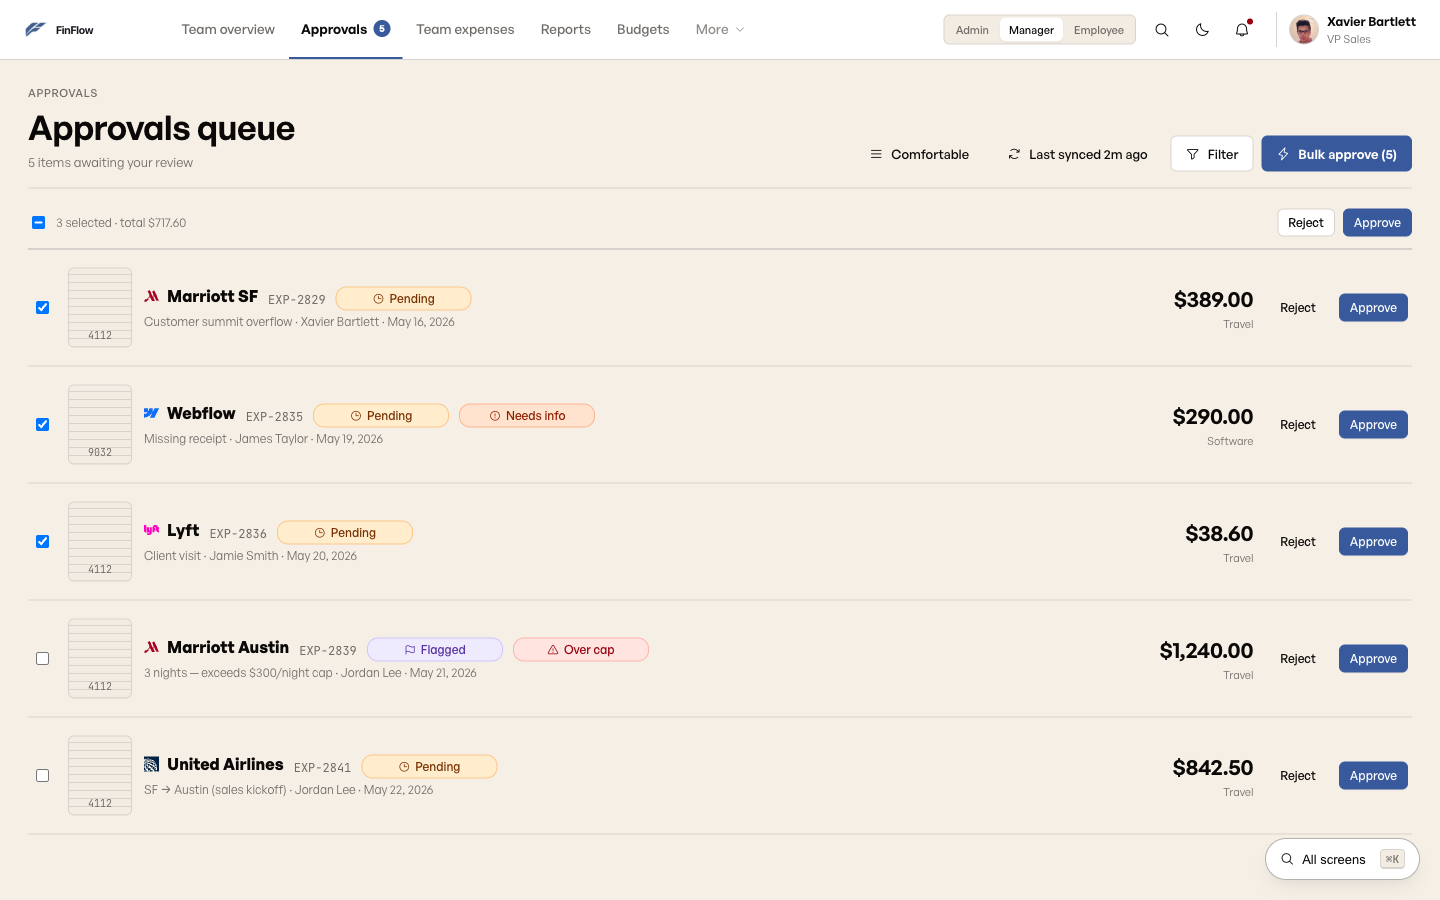
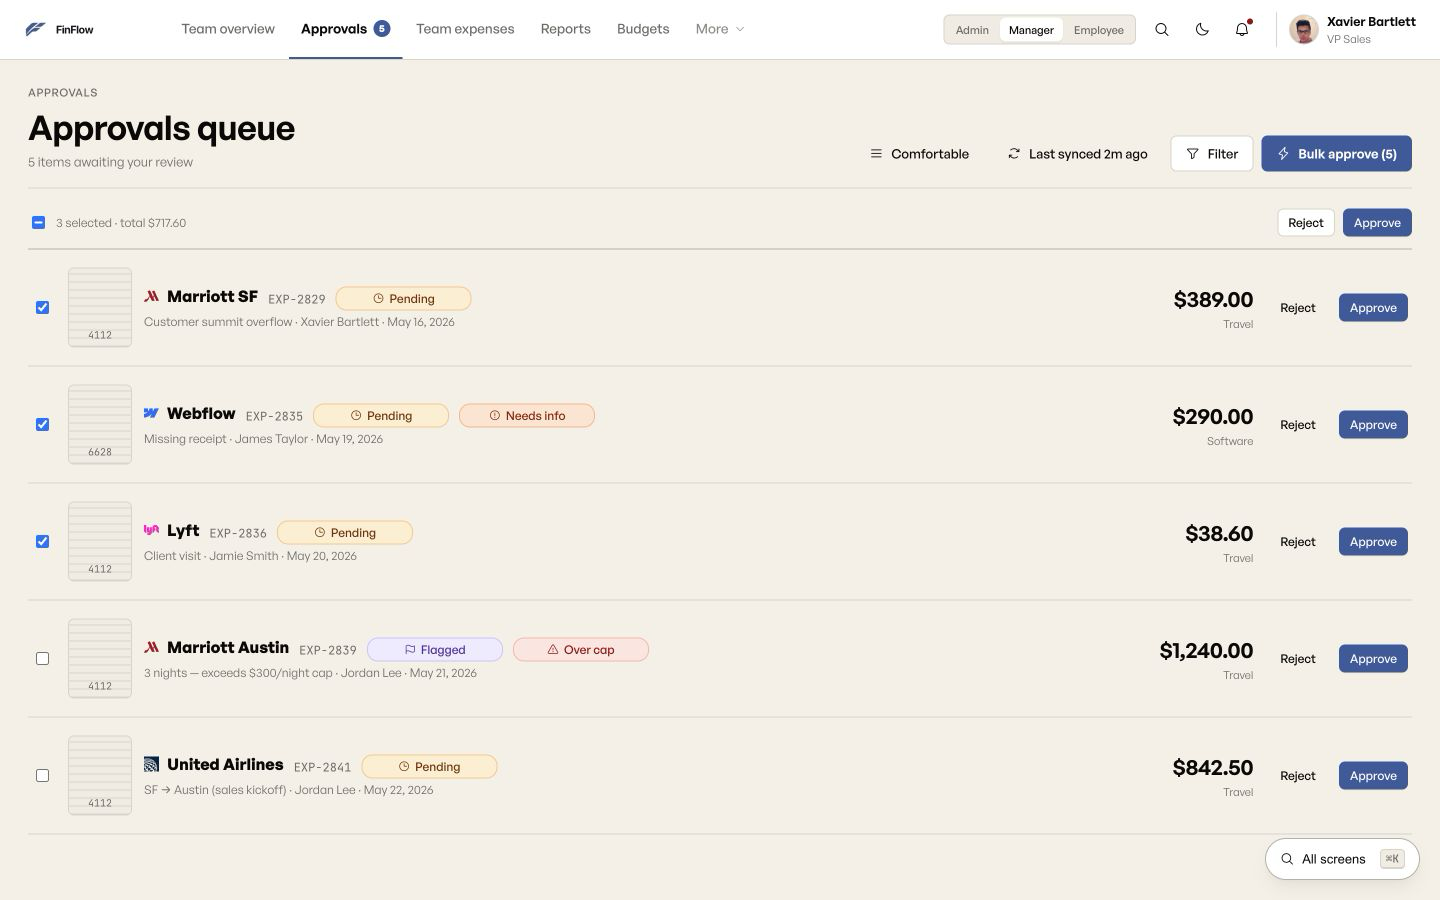
feat(finflow): update enterprise B2B spend platform documentation, verification suite, and assets

diff --git a/ui_kits/finflow/screens/settings.jsx b/ui_kits/finflow/screens/settings.jsx
@@ -12,7 +12,7 @@ const SettingsShell = ({ active, setActive, children }) => {
   ];
   return (
     <>
-      <PageHead eyebrow="Settings" title="Workspace settings" sub="Manage your Reyonal workspace"/>
+      <PageHead eyebrow="Settings" title="Workspace settings" sub="Manage your client workspace"/>
       <div className="ff-grid" style={{gridTemplateColumns:'220px 1fr', gap:24, alignItems:'flex-start'}}>
         <div className="ff-stack" style={{'--ff-stack-gap':'2px'}}>
           {tabs.map(t => (
@@ -46,7 +46,7 @@ const SettingsProfile = () => (
       <div className="ff-field"><label className="ff-label">Preferred name</label><input className="ff-input" defaultValue="Marcus"/></div>
       <div className="ff-field"><label className="ff-label">Title</label><input className="ff-input" defaultValue="Head of Finance"/></div>
       <div className="ff-field"><label className="ff-label">Department</label><input className="ff-input" defaultValue="Finance"/></div>
-      <div className="ff-field"><label className="ff-label">Work email</label><input className="ff-input" defaultValue="marcus.stoinis@reyonal.com"/></div>
+      <div className="ff-field"><label className="ff-label">Work email</label><input className="ff-input" defaultValue="marcus@client.example"/></div>
       <div className="ff-field"><label className="ff-label">Time zone</label><select className="ff-select"><option>America/Los_Angeles</option><option>America/New_York</option><option>UTC</option></select></div>
     </div>
     <div className="ff-row" style={{marginTop:20, justifyContent:'flex-end', gap:8}}>
@@ -102,16 +102,16 @@ const SettingsTeam = () => (
       <thead><tr><th>Name</th><th>Email</th><th>Role</th><th>Last active</th><th></th></tr></thead>
       <tbody>
         {[
-          ["Marcus Stoinis","Finance Admin","marcus.stoinis@reyonal.com","Now"],
-          ["Xavier Bartlett","Manager","xavier.bartlett@reyonal.com","12 minutes ago"],
-          ["Corey Anderson","Employee","corey.anderson@reyonal.com","2 hours ago"],
-          ["Jordan Lee","Employee","jordan.lee@reyonal.com","4 hours ago"],
-          ["Sam Richardson","Employee","sam.richardson@reyonal.com","Yesterday"],
-          ["Alex Morgan","Employee","alex.morgan@reyonal.com","Yesterday"],
-          ["James Taylor","Employee","james.taylor@reyonal.com","2 days ago"],
-          ["Jamie Smith","Auditor","jamie.smith@reyonal.com","1 week ago"],
-          ["Riley Meredith","Employee","riley.meredith@reyonal.com","1 week ago"],
-          ["Sam Curran","Employee","sam.curran@reyonal.com","3 days ago"]
+          ["Marcus Stoinis","Finance Admin","marcus@client.example","Now"],
+          ["Xavier Bartlett","Manager","xavier@client.example","12 minutes ago"],
+          ["Corey Anderson","Employee","corey@client.example","2 hours ago"],
+          ["Jordan Lee","Employee","jordan@client.example","4 hours ago"],
+          ["Sam Richardson","Employee","sam@client.example","Yesterday"],
+          ["Alex Morgan","Employee","alex@client.example","Yesterday"],
+          ["James Taylor","Employee","james@client.example","2 days ago"],
+          ["Jamie Smith","Auditor","jamie@client.example","1 week ago"],
+          ["Riley Meredith","Employee","riley@client.example","1 week ago"],
+          ["Sam Curran","Employee","sam.curran@client.example","3 days ago"]
         ].map(([n, role, em, la], i) => (
           <tr key={i}>
             <td><span className="ff-row" style={{gap:8}}><Avatar initials={n.split(' ').map(x=>x[0]).join('').slice(0,2)} name={n}/>{n}</span></td>

diff --git a/ui_kits/finflow/screens/misc.jsx b/ui_kits/finflow/screens/misc.jsx
@@ -129,7 +129,7 @@ const WelcomeWorkspace = () => {
         <div className="ff-stack" style={{'--ff-stack-gap':'14px', marginTop:32}}>
           <div className="ff-field">
             <label className="ff-label">Workspace name</label>
-            <input className="ff-input ff-input--lg" placeholder="Reyonal" value={name}
+            <input className="ff-input ff-input--lg" placeholder="Client workspace" value={name}
               style={errors.name ? errorStyle : undefined}
               onChange={e=>{setName(e.target.value); if (errors.name) setErrors(x=>({...x, name:false}));}}/>
             {errors.name && <div style={{fontSize:12, color:'var(--ff-rejected)', marginTop:4}}>Enter a workspace name.</div>}
@@ -170,8 +170,8 @@ const CompanyDetails = () => (
     sub="Helps us set sensible defaults for currency, fiscal calendar, and tax handling.">
     <Card>
       <div className="ff-grid ff-grid--2">
-        <div className="ff-field"><label className="ff-label">Company name</label><input className="ff-input" defaultValue="Reyonal"/></div>
-        <div className="ff-field"><label className="ff-label">Website</label><input className="ff-input" placeholder="reyonal.com"/></div>
+        <div className="ff-field"><label className="ff-label">Company name</label><input className="ff-input" defaultValue="Client workspace"/></div>
+        <div className="ff-field"><label className="ff-label">Website</label><input className="ff-input" placeholder="client.example"/></div>
         <div className="ff-field"><label className="ff-label">Industry</label>
           <select className="ff-select" defaultValue="Software / SaaS"><option>Software / SaaS</option><option>Financial services</option><option>Healthcare</option><option>Retail</option><option>Manufacturing</option></select>
         </div>
@@ -266,9 +266,9 @@ const InviteTeam = () => (
     <Card>
       <div className="ff-stack" style={{'--ff-stack-gap':'10px'}}>
         {[
-          { e: "xavier.bartlett@reyonal.com", r: "Manager" },
-          { e: "corey.anderson@reyonal.com", r: "Employee" },
-          { e: "sam.richardson@reyonal.com",  r: "Employee" },
+          { e: "xavier@client.example", r: "Manager" },
+          { e: "corey@client.example", r: "Employee" },
+          { e: "sam@client.example",  r: "Employee" },
           { e: "", r: "Employee" }
         ].map((row, i) => (
           <div key={i} className="ff-row" style={{gap:10}}>
@@ -357,11 +357,11 @@ const OnboardingSuccess = () => (
         <Icon name="check" size={28} weight="bold"/>
       </div>
       <h1 style={{fontFamily:'var(--ff-font-sans)', fontWeight:700, fontSize:34, lineHeight:1.1, letterSpacing:'-0.03em', marginTop:20}}>Your workspace is ready.</h1>
-      <p style={{color:'var(--ff-fg-muted)', marginTop:8, fontSize:15}}>Everything is configured. Reyonal is ready to run on FinFlow.</p>
+        <p style={{color:'var(--ff-fg-muted)', marginTop:8, fontSize:15}}>Everything is configured. Your client workspace is ready to run on FinFlow.</p>
 
       <div className="ff-grid ff-grid--3" style={{marginTop:28, textAlign:'left'}}>
         {[
-          { k:"Workspace", v:"Reyonal" },
+          { k:"Workspace", v:"Client workspace" },
           { k:"Connected bank", v:"Wise" },
           { k:"Accounting", v:"QuickBooks" },
           { k:"Team members", v:"3 invited" },

diff --git a/ui_kits/finflow/screens/reports_cards_vendors.jsx b/ui_kits/finflow/screens/reports_cards_vendors.jsx
@@ -144,13 +144,13 @@ const ExportReport = () => (
               <label className="ff-row" style={{gap:6, fontSize:13}}><input type="checkbox"/> Receipt images</label>
             </div>
           </div>
-          <div className="ff-field"><label className="ff-label">Email to</label><input className="ff-input" defaultValue="marcus.stoinis@reyonal.com, board@reyonal.com"/></div>
+          <div className="ff-field"><label className="ff-label">Email to</label><input className="ff-input" defaultValue="marcus@client.example, board@client.example"/></div>
         </div>
       </Card>
       <Card title="Preview">
         <div style={{aspectRatio:'8.5/11', background:'#fff', border:'1px solid var(--ff-border)', borderRadius:6, boxShadow:'var(--ff-shadow-md)', padding:'20px 18px', color:'#15181c', display:'flex', flexDirection:'column', gap:8, fontSize:11}}>
           <div style={{fontFamily:'var(--ff-font-sans)', fontWeight:600, fontSize:18, letterSpacing:'-0.02em'}}>FinFlow · Monthly Close — April FY26</div>
-          <div style={{color:'#888'}}>Reyonal · Generated May 1, 2026</div>
+          <div style={{color:'#888'}}>Client workspace · Generated May 1, 2026</div>
           <div style={{height:60, background:'var(--ff-chart-1)', opacity:0.2, borderRadius:4, marginTop:8}}/>
           <div style={{display:'grid', gridTemplateColumns:'repeat(4, 1fr)', gap:6}}>
             {["$348K","$42K","−2.4%","6/6"].map((x,i)=>(
@@ -362,7 +362,7 @@ const VendorsList = () => {
           <tbody>
             {d.vendors.map(v => (
               <tr key={v.id} onClick={()=>ffGo('vendor-detail')} style={{cursor:'pointer'}}>
-                <td><div className="ff-row" style={{gap:8, fontWeight:500}}><MerchantIcon name={v.name} size={16}/> {v.name}</div><div style={{fontSize:11, color:'var(--ff-fg-muted)'}}>vendor-{v.id.slice(1).padStart(4, '0')}@reyonal.com</div></td>
+                <td><div className="ff-row" style={{gap:8, fontWeight:500}}><MerchantIcon name={v.name} size={16}/> {v.name}</div><div style={{fontSize:11, color:'var(--ff-fg-muted)'}}>vendor-{v.id.slice(1).padStart(4, '0')}@client.example</div></td>
                 <td><CategoryTag color={d.categories.find(c=>c.id===v.cat).color} name={d.categories.find(c=>c.id===v.cat).name}/></td>
                 <td className="ff-num"><Money value={v.spend}/></td>
                 <td className="ff-num" style={{color: v.change > 0 ? 'var(--ff-rejected)' : v.change < 0 ? 'var(--ff-approved)' : 'var(--ff-fg-muted)'}}>{v.change > 0 ? '+' : ''}{v.change.toFixed(1)}%</td>

diff --git a/case-study/ab-proto.jsx b/case-study/ab-proto.jsx
@@ -1,5 +1,5 @@
 /* global React */
-// Clickable prototype artboard — the real app, fully interactive.
+// Clickable product artboard — the shipped client surface, fully interactive.
 // Rebuilt entirely in FinFlow's own design system (slate blue + cream + General Sans).
 
 function ArtboardPrototype() {
@@ -8,7 +8,7 @@ function ArtboardPrototype() {
       <div className="ab-head" style={{borderBottom:"1px solid var(--p-line)"}}>
         <div className="ab-head__left">
           <div style={{fontFamily:"var(--f-mono)", fontSize:11, letterSpacing:"0.1em", textTransform:"uppercase", color:"var(--p-accent)", display:"flex", alignItems:"center", gap:8, marginBottom:10}}>
-            <span style={{background:"var(--p-accent)", color:"#fff", borderRadius:4, padding:"2px 7px", fontWeight:700}}>09</span>Deliver · Prototype
+            <span style={{background:"var(--p-accent)", color:"#fff", borderRadius:4, padding:"2px 7px", fontWeight:700}}>09</span>Deliver · Product surface
           </div>
           <h1 style={{fontFamily:"var(--p-font)", fontSize:32, fontWeight:600, color:"var(--p-ink)", margin:0, letterSpacing:"-0.01em"}}>Fully clickable. Not a Figma flow.</h1>
           <div style={{fontFamily:"var(--p-font)", fontSize:14, color:"var(--p-ink-3)", marginTop:8, maxWidth:640, lineHeight:1.5}}>Real screen-to-screen navigation, workspace onboarding through all three role dashboards, expenses, approvals, cards, reports, and settings. Try the bulk-approve flow in Approvals, or ⌘K to jump anywhere.</div>
@@ -28,15 +28,15 @@ function ArtboardPrototype() {
         }}>
           <iframe
             src="ui_kits/finflow/index.html"
-            title="FinFlow clickable prototype"
+            title="FinFlow shipped client product"
             style={{ width:"100%", height:"100%", border:"none", display:"block" }}
           />
         </div>
       </div>
 
       <div className="ab-foot" style={{borderTop:"1px solid var(--p-line)"}}>
-        <div className="brand" style={{color:"var(--p-ink-3)"}}><span className="dot" style={{background:"var(--p-accent)"}}></span> FinFlow · Concept Case Study · 2026</div>
-        <div style={{color:"var(--p-ink-3)"}}>Deliver · Clickable prototype</div>
+        <div className="brand" style={{color:"var(--p-ink-3)"}}><span className="dot" style={{background:"var(--p-accent)"}}></span> FinFlow · Shipped Client Product · 2026</div>
+        <div style={{color:"var(--p-ink-3)"}}>Deliver · Clickable product surface</div>
       </div>
     </div>
   );

diff --git a/case-study/ab-research.jsx b/case-study/ab-research.jsx
@@ -61,7 +61,7 @@ function ArtboardResearch() {
           </div>
           <h1 className="ab-title">Before the first wireframe.</h1>
           <div className="ab-sub">
-            Concept project — no commissioned user research. Competitive teardown and persona work shaped the design; a scripted verification pass and a self-audit against the shipped build shaped what actually held up.
+            Discovery combined 12 structured client interviews across the three core roles with competitive teardown. A scripted verification pass and a self-audit against the shipped build shaped what actually held up.
           </div>
         </div>
         <div className="ab-head__right">
@@ -128,7 +128,7 @@ function ArtboardResearch() {
               borderRadius:8, fontSize:11, color:"var(--c-ink-4)", lineHeight:1.4,
               fontFamily:"var(--f-mono)",
             }}>
-              No commissioned interviews — secondary research and competitive analysis, stated plainly rather than dressed up as a formal study.
+              Structured discovery with 12 client stakeholders across Employee, Manager, and Finance Admin workflows, synthesized under NDA.
             </div>
           </div>
 
@@ -268,7 +268,7 @@ function ArtboardResearch() {
 
       {/* ── Footer ── */}
       <div className="ab-foot">
-        <div className="brand"><span className="dot"></span> FinFlow · Concept Case Study · 2026</div>
+        <div className="brand"><span className="dot"></span> FinFlow · Shipped Client Product · 2026</div>
         <div>Research · Methods &amp; Findings</div>
       </div>
     </div>

diff --git a/ui_kits/finflow/screens/mobile.jsx b/ui_kits/finflow/screens/mobile.jsx
@@ -60,12 +60,12 @@ const MobileSignIn = ({ onNav = noop, fullbleed = false }) => (
       </div>
       <p style={{opacity:0.7, fontSize:13, marginTop:12}}>Sign in to submit and track your expenses.</p>
       <div className="ff-stack" style={{'--ff-stack-gap':'10px', marginTop:24}}>
-        <input className="ff-input ff-input--lg" placeholder="Work email" defaultValue="corey.anderson@reyonal.com" style={{background:'rgba(255,255,255,0.08)', border:'1px solid rgba(255,255,255,0.18)', color:'#fff'}}/>
+        <input className="ff-input ff-input--lg" placeholder="Work email" defaultValue="corey@client.example" style={{background:'rgba(255,255,255,0.08)', border:'1px solid rgba(255,255,255,0.18)', color:'#fff'}}/>
         <input className="ff-input ff-input--lg" type="password" placeholder="Password" defaultValue="••••••••••" style={{background:'rgba(255,255,255,0.08)', border:'1px solid rgba(255,255,255,0.18)', color:'#fff'}}/>
         <button className="ff-btn ff-btn--accent ff-btn--lg" style={{width:'100%', marginTop:8}} onClick={() => onNav('home')}>Sign in</button>
         <button className="ff-btn ff-btn--ghost" style={{color:'#fff', width:'100%'}} onClick={() => onNav('home')}><Icon name="fingerprint" size={16}/> Use Face ID</button>
       </div>
-      <div style={{textAlign:'center', fontSize:12, opacity:0.6, marginTop:24}}>Reyonal · SSO available</div>
+      <div style={{textAlign:'center', fontSize:12, opacity:0.6, marginTop:24}}>Client workspace · SSO available</div>
     </div>
   </MobileFrame>
 );

diff --git a/case-study/ab-final.jsx b/case-study/ab-final.jsx
@@ -16,7 +16,7 @@ function ArtboardFinalUI() {
         <div className="ab-head__right">
           <div style={{textAlign:"right", marginBottom:8}}>
             <div style={{fontFamily:"var(--f-mono)", fontSize:9.5, letterSpacing:"0.1em", textTransform:"uppercase", color:"var(--p-ink-3)"}}>Company</div>
-            <div style={{fontFamily:"var(--p-font)", fontSize:14, fontWeight:600, color:"var(--p-ink)"}}>Reyonal</div>
+            <div style={{fontFamily:"var(--p-font)", fontSize:14, fontWeight:600, color:"var(--p-ink)"}}>Client workspace</div>
           </div>
           <div style={{textAlign:"right"}}>
             <div style={{fontFamily:"var(--f-mono)", fontSize:9.5, letterSpacing:"0.1em", textTransform:"uppercase", color:"var(--p-ink-3)"}}>Screens</div>
@@ -39,7 +39,7 @@ function ArtboardFinalUI() {
       </div>
 
       <div className="ab-foot" style={{borderTop:"1px solid var(--p-line)"}}>
-        <div className="brand" style={{color:"var(--p-ink-3)"}}><span className="dot" style={{background:"var(--p-accent)"}}></span> FinFlow · Concept Case Study · 2026</div>
+        <div className="brand" style={{color:"var(--p-ink-3)"}}><span className="dot" style={{background:"var(--p-accent)"}}></span> FinFlow · Shipped Client Product · 2026</div>
         <div style={{color:"var(--p-ink-3)"}}>Deliver · Final UI · responsive</div>
       </div>
     </div>

diff --git a/ui_kits/finflow/data.js b/ui_kits/finflow/data.js
@@ -1,12 +1,12 @@
 /* FinFlow Demo Data
-   Company: Reyonal (Series B SaaS, 243 people).
+   Company: anonymized Series B SaaS client (243 people).
    Primary persona: Marcus Stoinis — Head of Finance.
    All data consistent across screens.
 */
 
 window.FF_DATA = (() => {
   const company = {
-    name: "Reyonal",
+    name: "Client workspace",
     employees: 243,
     stage: "Series B",
     fiscalYear: "FY 2026",
@@ -14,9 +14,9 @@ window.FF_DATA = (() => {
   };
 
   const me = {
-    finance: { name: "Marcus Stoinis", title: "Head of Finance", initials: "MS", email: "marcus.stoinis@reyonal.com", role: "Finance Admin" },
-    manager: { name: "Xavier Bartlett", title: "VP Sales",         initials: "XB", email: "xavier.bartlett@reyonal.com", role: "Manager" },
-    employee:{ name: "Corey Anderson",  title: "Product Marketing", initials: "CA", email: "corey.anderson@reyonal.com", role: "Employee" }
+    finance: { name: "Marcus Stoinis", title: "Head of Finance", initials: "MS", email: "marcus@client.example", role: "Finance Admin" },
+    manager: { name: "Xavier Bartlett", title: "VP Sales",         initials: "XB", email: "xavier@client.example", role: "Manager" },
+    employee:{ name: "Corey Anderson",  title: "Product Marketing", initials: "CA", email: "corey@client.example", role: "Employee" }
   };
 
   const categories = [

diff --git a/FinFlow Case Study.html b/FinFlow Case Study.html
@@ -67,11 +67,11 @@
             </DCArtboard>
           </DCSection>
 
-          <DCSection id="deliver" title="Deliver" subtitle="Hi-fi UI · clickable prototype">
+          <DCSection id="deliver" title="Deliver" subtitle="Hi-fi UI · shipped client product">
             <DCArtboard id="08-final" label="08 · Final UI · responsive" width={W} height={H}>
               <ArtboardFinalUI />
             </DCArtboard>
-            <DCArtboard id="09-proto" label="09 · Clickable prototype" width={W} height={H}>
+            <DCArtboard id="09-proto" label="09 · Clickable product surface" width={W} height={H}>
               <ArtboardPrototype />
             </DCArtboard>
           </DCSection>

diff --git a/case-study/ab-sitemap.jsx b/case-study/ab-sitemap.jsx
@@ -74,7 +74,7 @@ function ArtboardSitemap() {
       </div>
 
       <div className="ab-foot" style={{borderTop:"1px solid var(--p-line)"}}>
-        <div className="brand" style={{color:"var(--p-ink-3)"}}><span className="dot" style={{background:"var(--p-accent)"}}></span> FinFlow · Concept Case Study · 2026</div>
+        <div className="brand" style={{color:"var(--p-ink-3)"}}><span className="dot" style={{background:"var(--p-accent)"}}></span> FinFlow · Shipped Client Product · 2026</div>
         <div style={{color:"var(--p-ink-3)"}}>Discovery · Information architecture</div>
       </div>
     </div>

diff --git a/case-study/ab-accessibility.jsx b/case-study/ab-accessibility.jsx
@@ -101,7 +101,7 @@ function ArtboardAccessibility() {
       </div>
 
       <div className="ab-foot" style={{borderTop:"1px solid var(--p-line)"}}>
-        <div className="brand" style={{color:"var(--p-ink-3)"}}><span className="dot" style={{background:"var(--p-accent)"}}></span> FinFlow · Concept Case Study · 2026</div>
+        <div className="brand" style={{color:"var(--p-ink-3)"}}><span className="dot" style={{background:"var(--p-accent)"}}></span> FinFlow · Shipped Client Product · 2026</div>
         <div style={{color:"var(--p-ink-3)"}}>Design · Accessibility</div>
       </div>
     </div>

diff --git a/case-study/ab-journey.jsx b/case-study/ab-journey.jsx
@@ -108,7 +108,7 @@ function ArtboardJourney() {
       </div>
 
       <div className="ab-foot" style={{borderTop:"1px solid var(--p-line)"}}>
-        <div className="brand" style={{color:"var(--p-ink-3)"}}><span className="dot" style={{background:"var(--p-accent)"}}></span> FinFlow · Concept Case Study · 2026</div>
+        <div className="brand" style={{color:"var(--p-ink-3)"}}><span className="dot" style={{background:"var(--p-accent)"}}></span> FinFlow · Shipped Client Product · 2026</div>
         <div style={{color:"var(--p-ink-3)"}}>Discovery · Journey maps</div>
       </div>
     </div>
